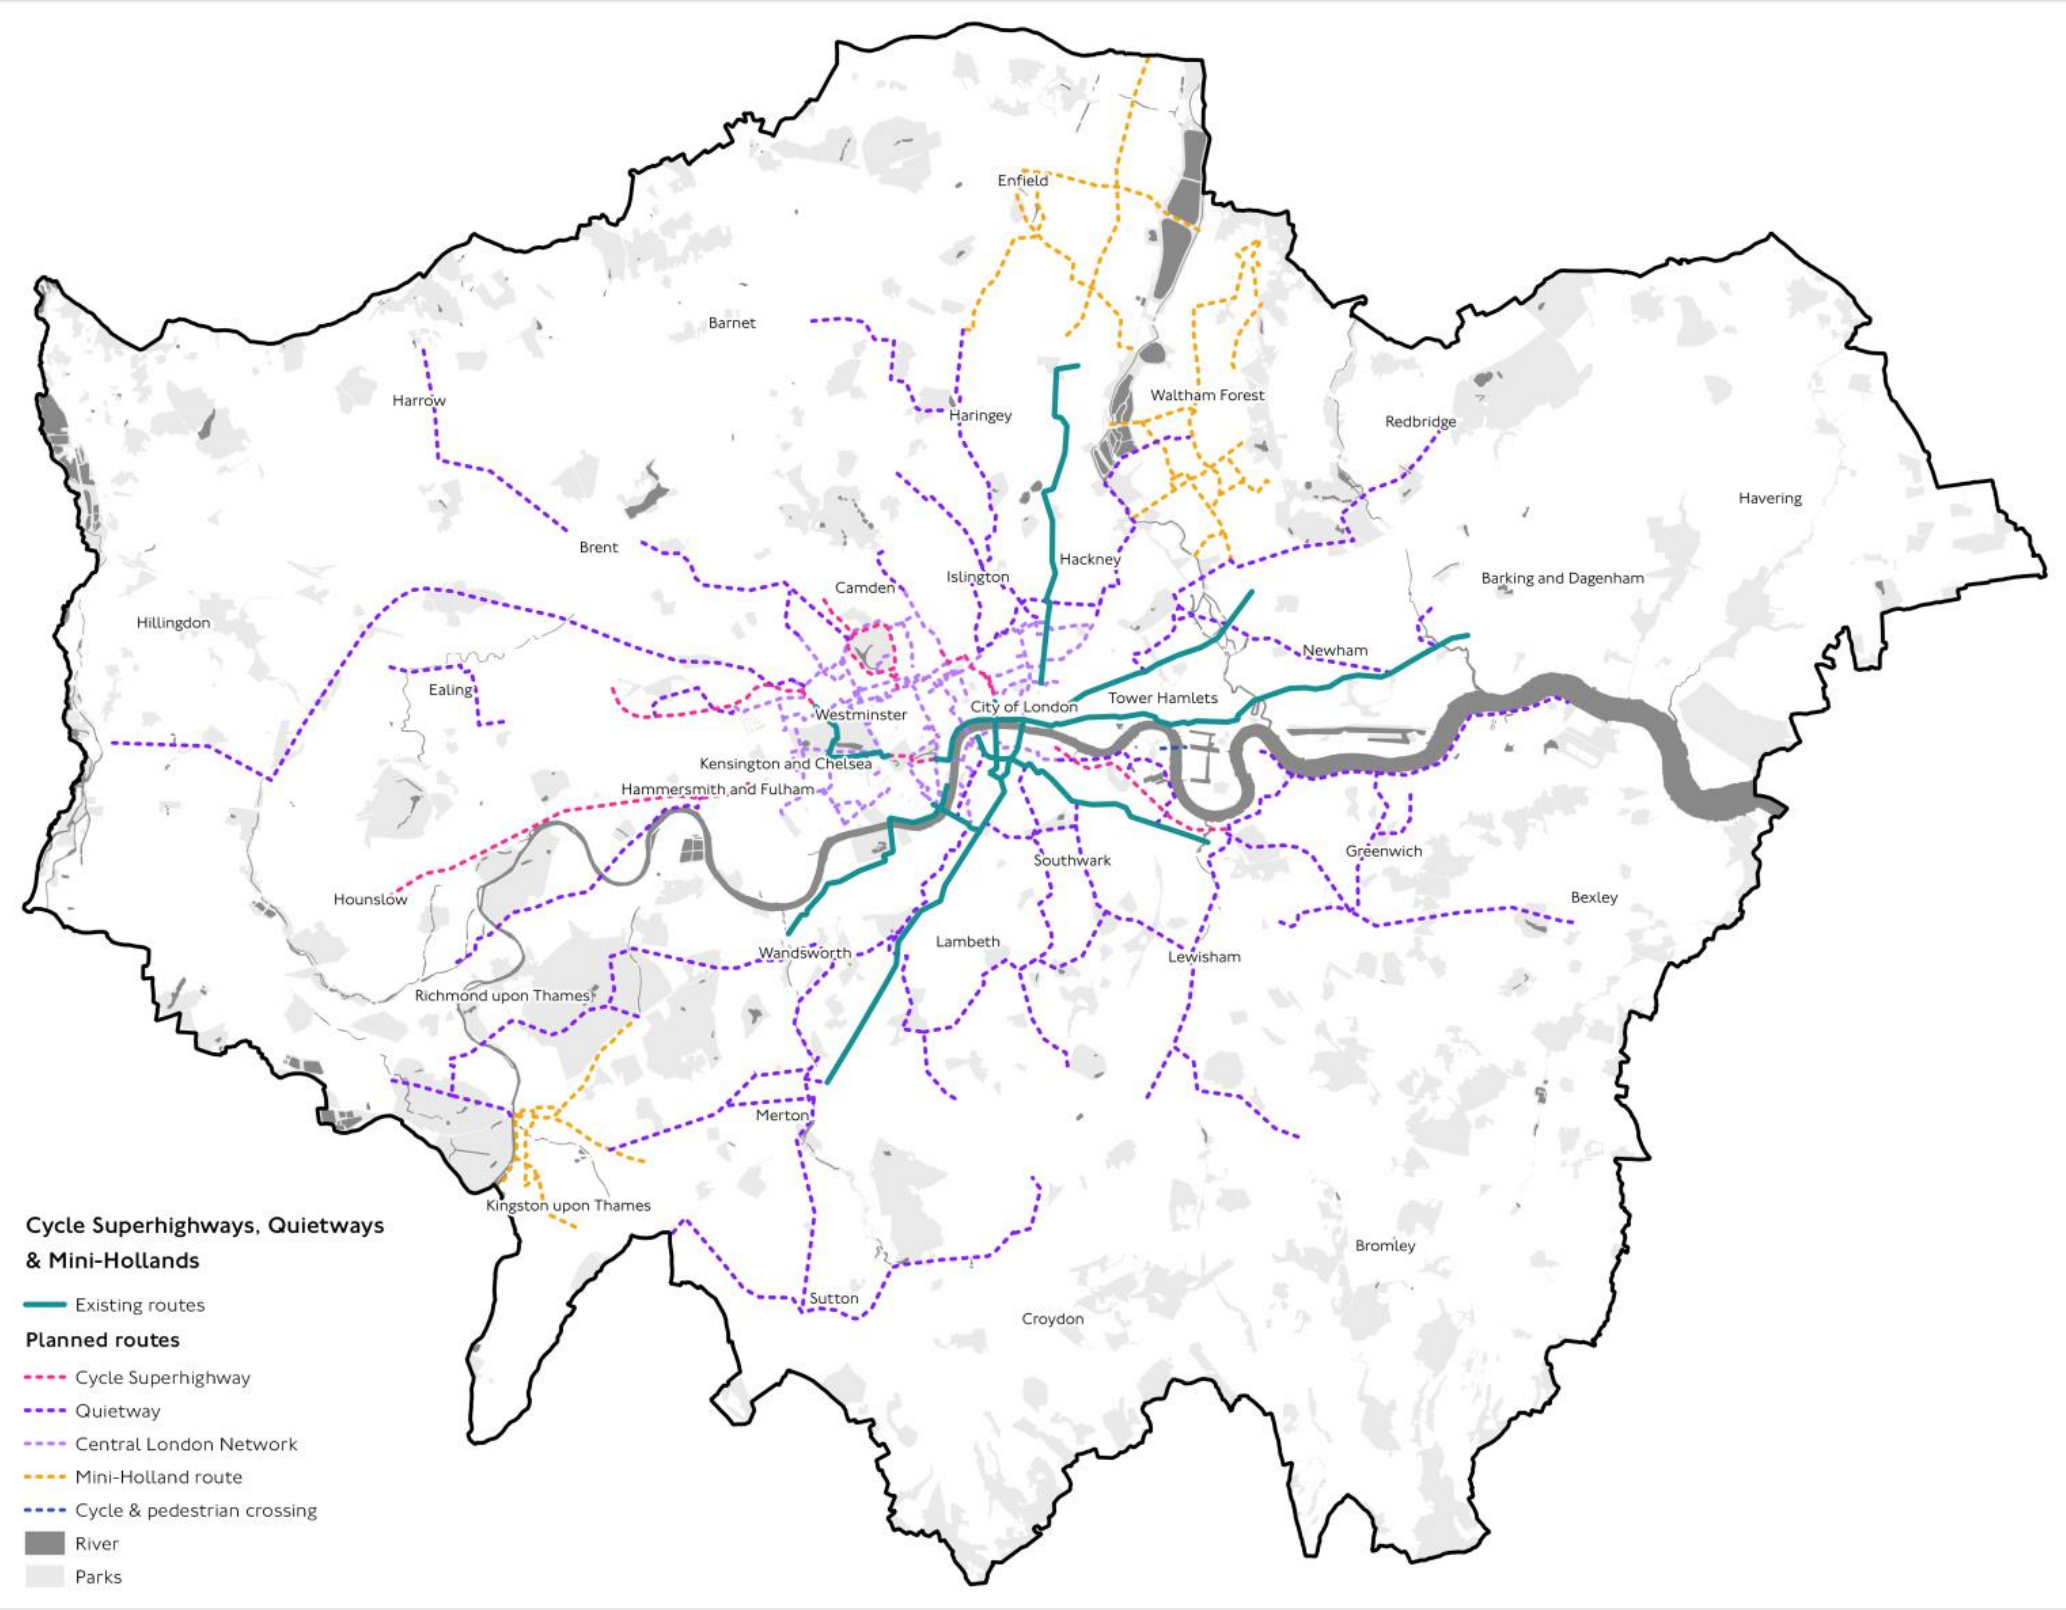
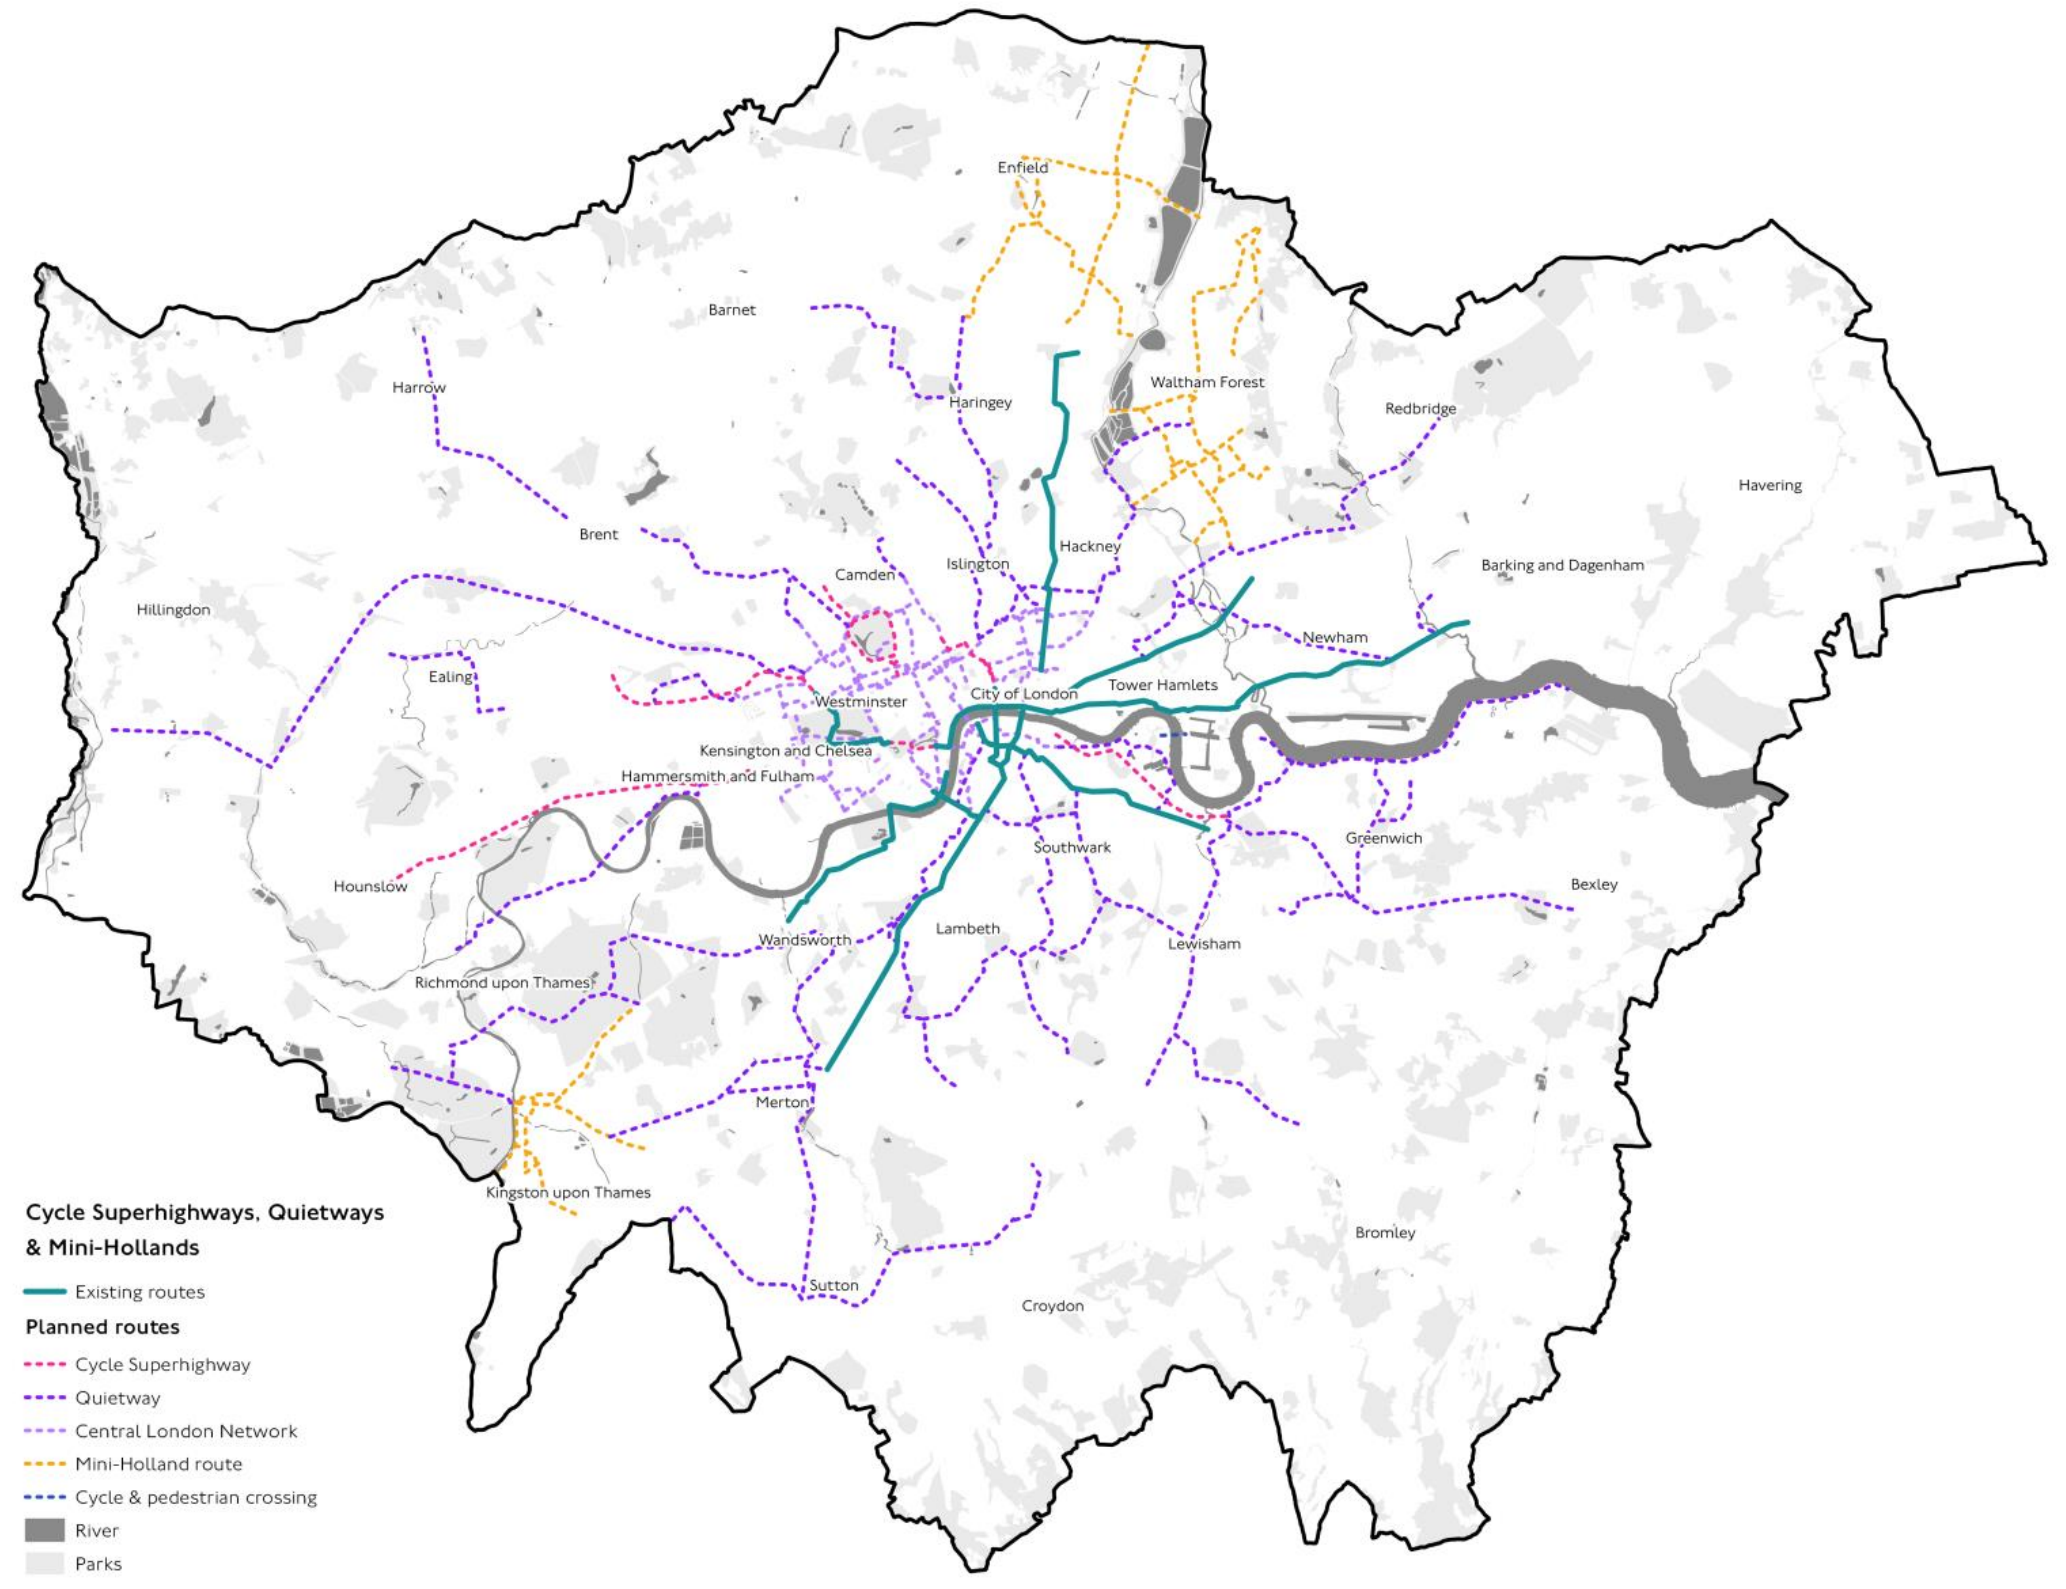
cropped london image and made pictures bigger.

diff --git a/src/pages/projects/greenlanes/GreenLanes.js b/src/pages/projects/greenlanes/GreenLanes.js
@@ -203,7 +203,7 @@ class BikeLanes extends Component {
               </Link>{" "}
               than would be possible with car-oriented infrastructure.
             </p>
-            <Grid item xs={12} md={6} className="body-content">
+            <Grid item xs={12} md={10} lg={8} xl={6} className="body-content">
               <Paper className="image-paper">
                 <img
                   src={LondonBikePlan}
@@ -236,7 +236,7 @@ class BikeLanes extends Component {
               from 3 million per year to 17 million per year over the same time
               period.
             </p>
-            <Grid item xs={12} md={6} className="body-content">
+            <Grid item xs={12} md={10} lg={8} xl={6} className="body-content">
               <Paper className="image-paper">
                 <img
                   src={SevilleBikeMap}
@@ -267,7 +267,7 @@ class BikeLanes extends Component {
               existing protected green lanes addressed. San Francisco lacks a
               vision for a network of protected green lanes spanning the city.
             </p>
-            <Grid item xs={12} md={6} className="body-content">
+            <Grid item xs={12} md={10} lg={8} xl={6} className="body-content">
               <Paper className="image-paper">
                 <img
                   src={SFBikePlan}
